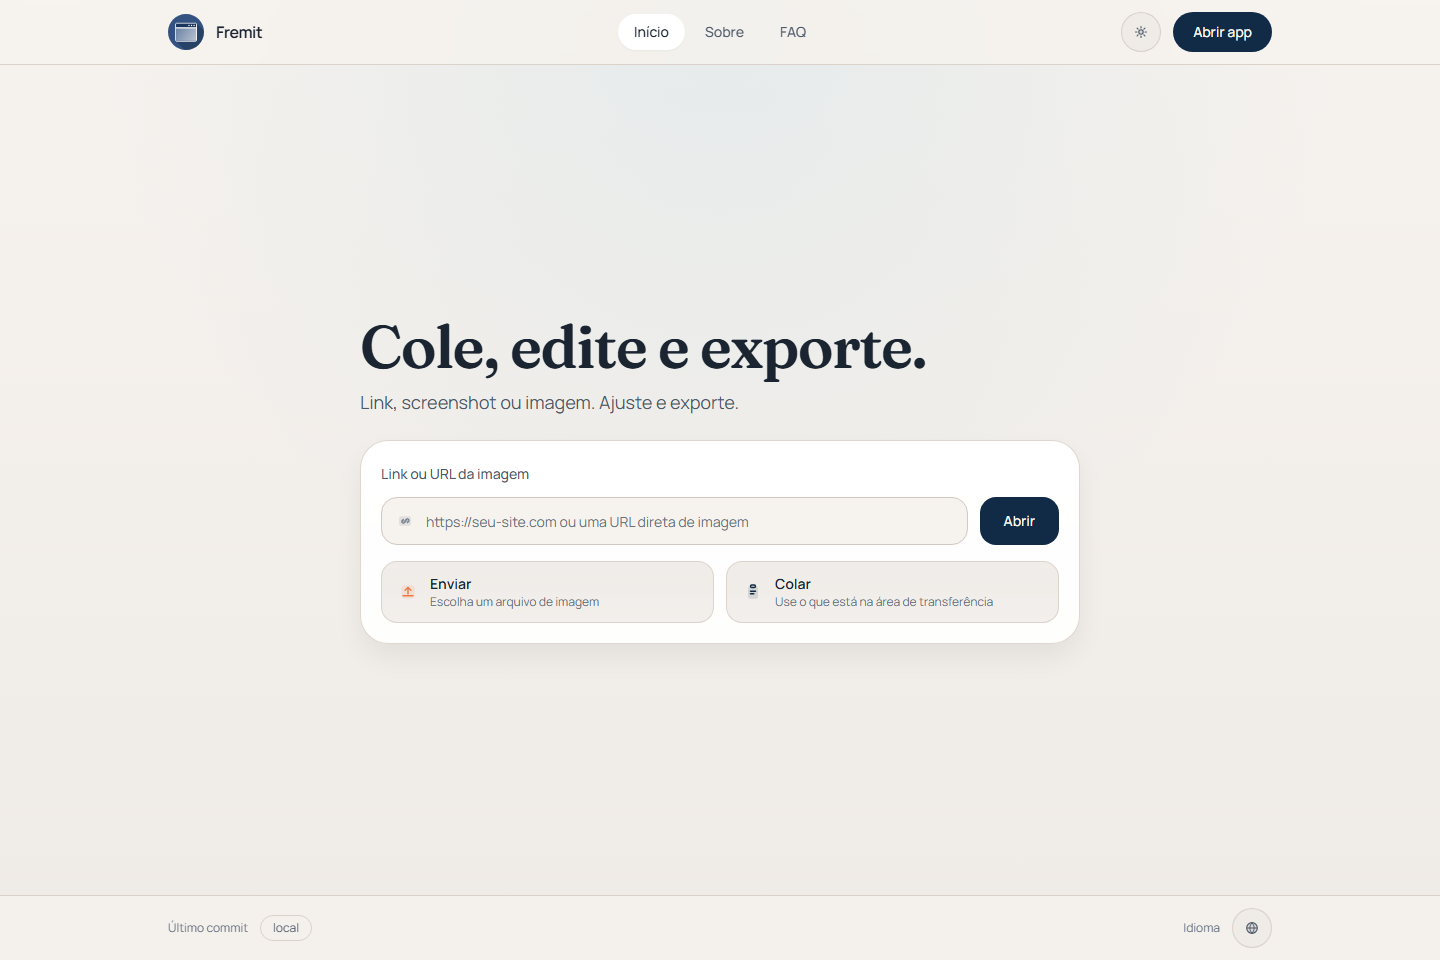
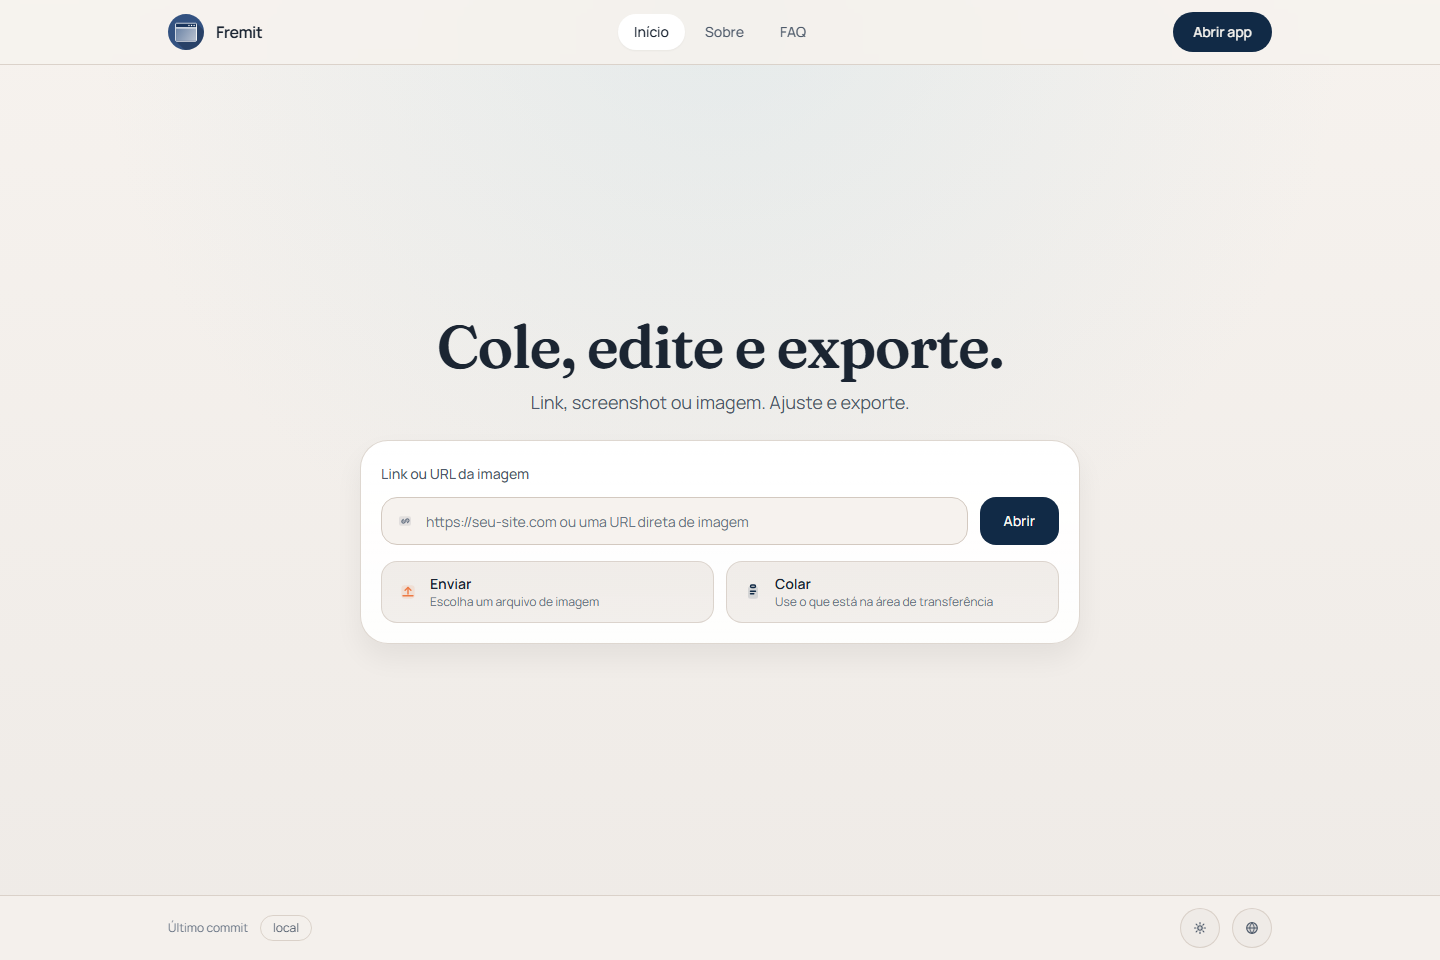
Polish home and about public pages

Changed region(s): [[0.25, 0.3438, 0.6875, 0.4375], [0.8125, 0.9375, 0.8438, 0.9688]]

diff --git a/src/pages/AboutPage.tsx b/src/pages/AboutPage.tsx
@@ -1,9 +1,9 @@
 import { Link } from 'react-router-dom';
-import { DevicePanelIcon, ExportPanelIcon, LinkPanelIcon } from '@/components/icons/AppIcons';
+import { BrowserPanelIcon, ExportPanelIcon, SourcePanelIcon } from '@/components/icons/AppIcons';
 import { Button } from '@/components/ui';
 import { useI18n } from '@/i18n/useI18n';
 
-const icons = [LinkPanelIcon, DevicePanelIcon, ExportPanelIcon];
+const icons = [SourcePanelIcon, BrowserPanelIcon, ExportPanelIcon];
 
 export function AboutPage() {
   const { copy } = useI18n();
@@ -29,7 +29,7 @@ export function AboutPage() {
 
           <div className="mt-6 grid gap-4 md:grid-cols-3">
             {copy.about.workflow.map((section, index) => {
-              const Icon = icons[index] ?? LinkPanelIcon;
+              const Icon = icons[index] ?? SourcePanelIcon;
 
               return (
                 <article
@@ -47,24 +47,17 @@ export function AboutPage() {
           </div>
         </section>
 
-        <section className="mt-10 grid items-start gap-4 lg:grid-cols-[minmax(0,1.25fr)_minmax(0,1fr)]">
-          <div className="surface-card rounded-[1.9rem] border p-6 md:p-7">
+        <section className="mt-10 surface-card rounded-[1.9rem] border p-6 md:p-7">
+          <div className="max-w-2xl">
             <h2 className="text-3xl font-semibold tracking-tight">{copy.about.featuresTitle}</h2>
-            <div className="mt-6 grid gap-4 sm:grid-cols-2">
-              {copy.about.features.map((section) => (
-                <article key={section.title} className="rounded-[1.2rem] border border-border/70 bg-[hsl(var(--surface-muted))/0.68] p-5">
-                  <h3 className="text-xl font-semibold tracking-tight">{section.title}</h3>
-                  <p className="mt-3 text-sm leading-7 text-[hsl(var(--text-muted))]">{section.body}</p>
-                </article>
-              ))}
-            </div>
           </div>
-
-          <div className="surface-muted rounded-[1.9rem] border p-6 md:p-7">
-            <h2 className="text-3xl font-semibold tracking-tight">{copy.about.noteTitle}</h2>
-            <p className="mt-4 text-sm leading-7 text-[hsl(var(--text-muted))] md:text-base">
-              {copy.about.noteBody}
-            </p>
+          <div className="mt-6 grid gap-4 sm:grid-cols-2">
+            {copy.about.features.map((section) => (
+              <article key={section.title} className="rounded-[1.2rem] border border-border/70 bg-[hsl(var(--surface-muted))/0.68] p-5">
+                <h3 className="text-xl font-semibold tracking-tight">{section.title}</h3>
+                <p className="mt-3 text-sm leading-7 text-[hsl(var(--text-muted))]">{section.body}</p>
+              </article>
+            ))}
           </div>
         </section>
       </section>

diff --git a/src/components/layout/ProductLayout.tsx b/src/components/layout/ProductLayout.tsx
@@ -1,5 +1,5 @@
 import * as Popover from '@radix-ui/react-popover';
-import { Link, NavLink, Outlet, useLocation } from 'react-router-dom';
+import { Link, NavLink, Outlet } from 'react-router-dom';
 import { MenuPanelIcon } from '@/components/icons/AppIcons';
 import iconUrl from '/icon.svg?url';
 import { LocaleSelector } from '@/components/layout/LocaleSelector';
@@ -7,7 +7,6 @@ import { ThemeSelector } from '@/components/layout/ThemeSelector';
 import { Button } from '@/components/ui';
 import { useApplyTheme } from '@/hooks/useApplyTheme';
 import { useI18n } from '@/i18n/useI18n';
-import { useStore } from '@/store/useStore';
 
 const navItems = [
   { to: '/', key: 'home' as const },
@@ -17,11 +16,7 @@ const navItems = [
 
 export function ProductLayout() {
   useApplyTheme();
-  const location = useLocation();
   const { copy } = useI18n();
-  const themePreference = useStore((state) => state.appShell.themePreference);
-  const isHomeRoute = location.pathname === '/';
-  const currentThemeLabel = themePreference === 'dark' ? copy.theme.dark : copy.theme.light;
 
   return (
     <div className="app-shell flex min-h-svh flex-col text-foreground">
@@ -114,15 +109,7 @@ export function ProductLayout() {
           </div>
 
           <div className="flex flex-wrap items-center gap-3">
-            <div className="flex items-center gap-2">
-              {isHomeRoute && (
-                <span className="text-[hsl(var(--text-soft))]">
-                  {copy.theme.colorSelector} · {copy.theme.current}: {currentThemeLabel}
-                </span>
-              )}
-              <ThemeSelector />
-            </div>
-            <span>{copy.footer.language}</span>
+            <ThemeSelector />
             <LocaleSelector />
           </div>
         </div>

diff --git a/src/components/icons/AppIcons.tsx b/src/components/icons/AppIcons.tsx
@@ -40,6 +40,16 @@ export function UploadPanelIcon({ className }: IconProps) {
   );
 }
 
+export function SourcePanelIcon({ className }: IconProps) {
+  return (
+    <IconFrame className={className}>
+      <rect x="4" y="6" width="16" height="12" rx="3" fill="currentColor" opacity="0.12" />
+      <path d="M12 6.8v6.2m0 0 2.5-2.5M12 13l-2.5-2.5" stroke="currentColor" strokeWidth="1.7" strokeLinecap="round" strokeLinejoin="round" />
+      <path d="M8 16.7h8" stroke="currentColor" strokeWidth="1.7" strokeLinecap="round" />
+    </IconFrame>
+  );
+}
+
 export function ClipboardPanelIcon({ className }: IconProps) {
   return (
     <IconFrame className={className}>
@@ -67,6 +77,19 @@ export function DevicePanelIcon({ className }: IconProps) {
       <rect x="15.5" y="7.5" width="5" height="10" rx="1.8" stroke="currentColor" strokeWidth="1.7" />
       <rect x="5.7" y="7.2" width="5.6" height="9.6" rx="1.2" stroke="currentColor" strokeWidth="1.7" />
       <circle cx="8.5" cy="17.2" r="0.8" fill="currentColor" />
+    </IconFrame>
+  );
+}
+
+export function BrowserPanelIcon({ className }: IconProps) {
+  return (
+    <IconFrame className={className}>
+      <rect x="3.5" y="5.2" width="17" height="13.6" rx="3" fill="currentColor" opacity="0.12" />
+      <rect x="5.4" y="8.6" width="13.2" height="8.1" rx="1.6" stroke="currentColor" strokeWidth="1.7" />
+      <path d="M3.8 8.4h16.4" stroke="currentColor" strokeWidth="1.7" strokeLinecap="round" />
+      <circle cx="6.7" cy="6.8" r="0.75" fill="currentColor" />
+      <circle cx="9.5" cy="6.8" r="0.75" fill="currentColor" opacity="0.82" />
+      <circle cx="12.3" cy="6.8" r="0.75" fill="currentColor" opacity="0.6" />
     </IconFrame>
   );
 }

diff --git a/src/i18n/messages.ts b/src/i18n/messages.ts
@@ -44,8 +44,6 @@ export interface MessageSchema {
     workflow: ContentSection[];
     featuresTitle: string;
     features: ContentSection[];
-    noteTitle: string;
-    noteBody: string;
   };
   faq: {
     eyebrow: string;
@@ -208,8 +206,6 @@ export const messages: Record<Locale, MessageSchema> = {
           body: 'Solid, gradient, or image backgrounds plus export scale control.',
         },
       ],
-      noteTitle: 'When to use a screenshot',
-      noteBody: 'For authenticated pages, dynamic apps, or anything that exposes a poor preview, a manual screenshot remains the safest input.',
     },
     faq: {
       eyebrow: 'FAQ',
@@ -394,8 +390,6 @@ export const messages: Record<Locale, MessageSchema> = {
           body: 'Fundos sólidos, gradientes ou imagem com controle de escala na exportação.',
         },
       ],
-      noteTitle: 'Quando usar screenshot',
-      noteBody: 'Para páginas autenticadas, apps dinâmicos ou qualquer preview ruim, screenshot continua sendo a entrada mais segura.',
     },
     faq: {
       eyebrow: 'FAQ',
@@ -580,8 +574,6 @@ export const messages: Record<Locale, MessageSchema> = {
           body: 'Fondos sólidos, gradientes o imagen con control de escala para exportar.',
         },
       ],
-      noteTitle: 'Cuándo usar captura',
-      noteBody: 'Para páginas autenticadas, apps dinámicas o cualquier preview pobre, la captura sigue siendo la entrada más segura.',
     },
     faq: {
       eyebrow: 'FAQ',

diff --git a/src/pages/HomePage.tsx b/src/pages/HomePage.tsx
@@ -8,12 +8,14 @@ export function HomePage() {
     <main className="flex flex-1 items-center">
       <section className="mx-auto flex w-full max-w-3xl flex-1 items-center px-4 py-8 md:px-6 md:py-10">
         <div className="w-full space-y-6">
-          <div className="space-y-3">
-            <h1 className="max-w-2xl text-4xl font-semibold tracking-tight md:text-6xl">{copy.home.title}</h1>
-            <p className="max-w-xl text-base text-[hsl(var(--text-muted))] md:text-lg">{copy.home.subtitle}</p>
+          <div className="mx-auto max-w-2xl space-y-3 text-center">
+            <h1 className="text-4xl font-semibold tracking-tight md:text-6xl">{copy.home.title}</h1>
+            <p className="text-base text-[hsl(var(--text-muted))] md:text-lg">{copy.home.subtitle}</p>
           </div>
 
-          <SourceControls variant="home" />
+          <div className="mx-auto max-w-4xl">
+            <SourceControls variant="home" />
+          </div>
         </div>
       </section>
     </main>

diff --git a/README.md b/README.md
@@ -4,22 +4,11 @@ Turn links, screenshots, and image URLs into cleaner presentation assets.
 
 ![Fremit home in light mode](docs/readme/home-light.png)
 
-![Fremit editor using a Mark-Lee link](docs/readme/usage-mark-lee.png)
-
 Fremit is a static app for turning screenshots, image URLs, and best-effort website previews into cleaner presentation assets. It runs entirely on GitHub Pages and is now structured as a product site plus a dedicated editor.
 
 ## Live Demo
 
 [https://mafhper.github.io/fremit/](https://mafhper.github.io/fremit/)
-
-## What Changed
-
-- Product shell with routes for `/`, `/features`, `/how-it-works`, `/limitations`, `/faq`, and `/editor`
-- Dedicated editor canvas instead of a single tool-only screen
-- Explicit source pipeline for `upload`, `clipboard-image`, `image-url`, and `website-url`
-- Best-effort URL handling with visible fallback guidance instead of silent broken previews
-- Separate frame families for desktop browser chrome and generic mobile/tablet device frames
-- Export controls for PNG/JPG at `1x`, `2x`, or `3x`
 
 ## Current Feature Set
 
@@ -57,6 +46,8 @@ If no reliable preview is available, the current composition stays in place.
 - Vitest
 - Playwright
 
+![Fremit editor using a Mark-Lee link](docs/readme/usage-mark-lee.png)
+
 ## Getting Started
 
 ```bash
@@ -91,7 +82,6 @@ This project is configured for GitHub Pages deployment through `.github/workflow
 - The app is intentionally static and zero-cost.
 - Mobile and tablet frames are generic by design, not hardware simulations.
 - Long-lived project history and saved presets are still out of scope for this phase.
-- `bun.lock` is the only lockfile and Bun is the only supported package manager for this repo.
 
 ## Verification
 
